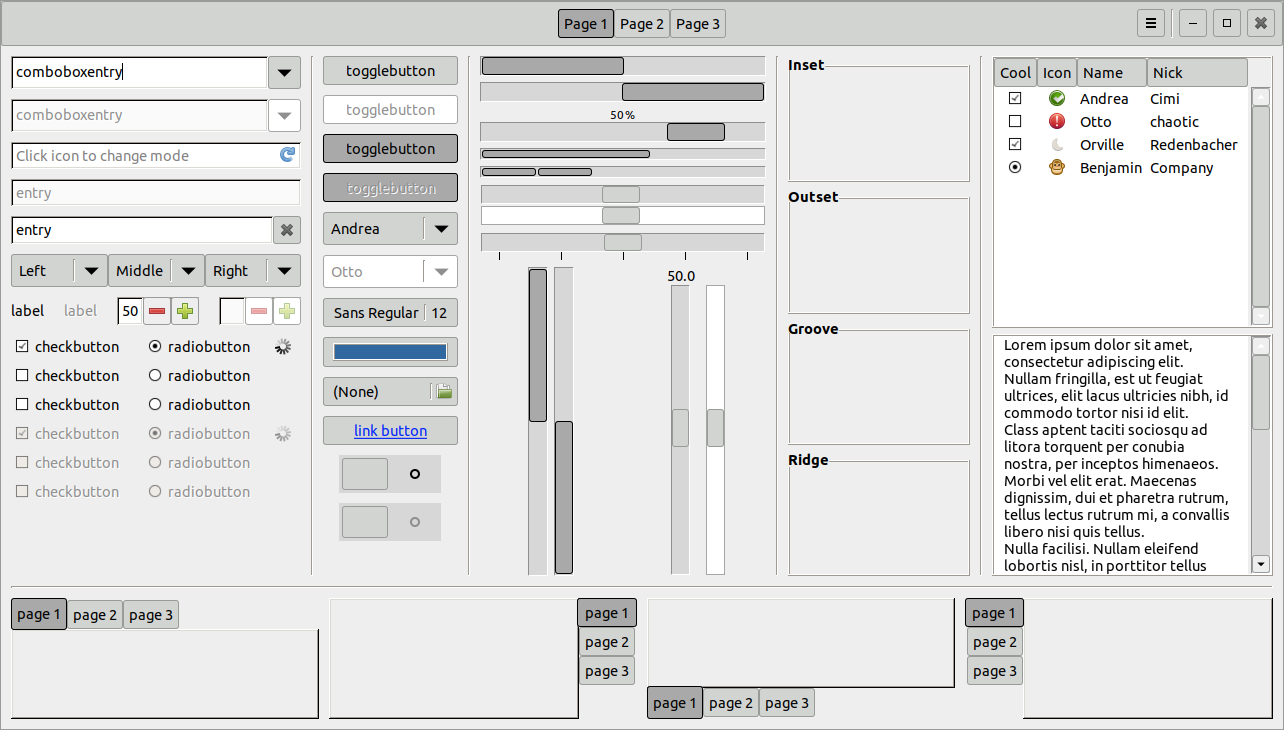
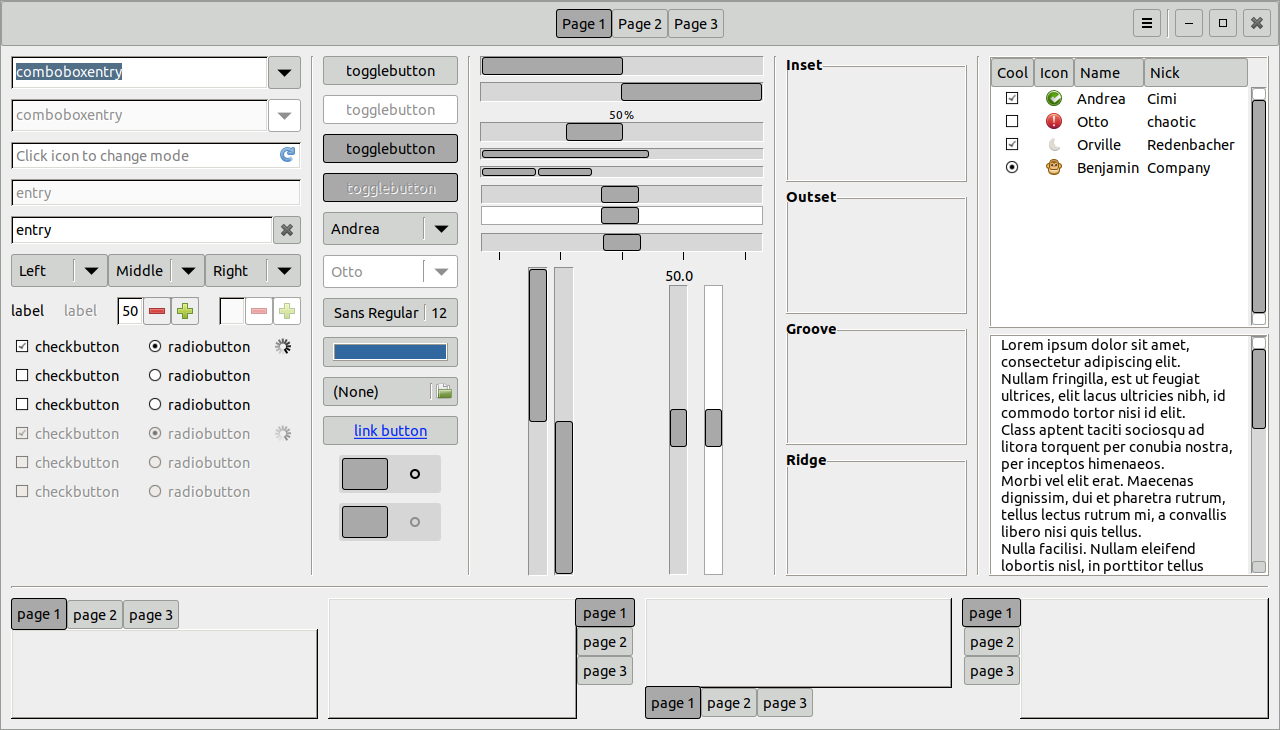
fix some GTK 2/3 inconsistencies

diff --git a/src/gtk-3.0/gtk-widgets.css b/src/gtk-3.0/gtk-widgets.css
@@ -103,40 +103,35 @@ button.color * {
 /**************
  * scrollbars *
  **************/
-scrollbar button,
-scrollbar button:hover,
-scrollbar button:active,
-scrollbar button:active:hover,
-scrollbar button:disabled {
-	background-color: @theme_bg_color;
-	color: black;
-	font-size: .8em;
-	min-height: .8rem;
-	min-width: .8rem;
-	padding: 2px;
-}
-scrollbar button:disabled {
-	background-color: @theme_bg_color;
-	color: white;
-}
-scrollbar slider {
+scrollbar button {
 	background-color: #D2D4D2;
 	border: 1px solid #989B98;
 	border-radius: 3px;
+	padding: .35em;
 }
-scrollbar slider:hover {
+scrollbar button:hover,
+scrollbar button:active,
+scrollbar button:active:hover {
 	background-color: @theme_selected_bg_color;
 	border: 1px solid black;
+}
+scrollbar button:disabled {
+	color: #6f6f6f;
+	background-color: white;
+	border: 1px solid #A4A7A4;
+}
+scrollbar slider {
+	background-color: @theme_selected_bg_color;
+	border: 1px solid black;
+	border-radius: 3px;
 }
 scrollbar.vertical slider {
 	min-height: .5rem;
 	min-width: .8rem;
-	padding: 2px;
 }
 scrollbar.horizontal slider {
 	min-height: .8rem;
 	min-width: .5rem;
-	padding: 2px;
 }
 scrollbar.vertical button.up {
 	-gtk-icon-source: -gtk-icontheme("pan-up-symbolic");
@@ -284,9 +279,8 @@ menuitem {
 	border-radius: 3px;
 }
 menuitem:hover {
-	background-color: @theme_selected_bg_color;
-	color: @theme_selected_fg_color;
-	border: 1px solid black;
+	background-color: #D2D4D2;
+	border: 1px solid #989B98;
 }
 menu separator {
 	border-image: url("assets/separator-horizontal.png") 1 / 1px stretch;
@@ -585,12 +579,8 @@ scale {
 	margin: 1px;
 }
 scale slider {
-	background-color: #D2D4D2;
-	border: 1px solid #989B98;
-	border-radius: 3px;
-}
-scale slider:hover {
 	background-color: @theme_selected_bg_color;
+	border-radius: 3px;
 	border: 1px solid black;
 }
 scale trough:disabled {
@@ -694,10 +684,11 @@ switch {
 	border-image: url("assets/button-pressed.png") 3 / 3px stretch;
 	min-height: 2em;
 	border: 1px solid transparent;
+	border-radius: 3px;
 }
 switch slider {
-	background-color: #D2D4D2;
-	border: 1px solid #989B98;
+	background-color: @theme_selected_bg_color;
+	border: 1px solid black;
 	border-radius: 3px;
 	margin: 2px;
 	padding: .3em;
